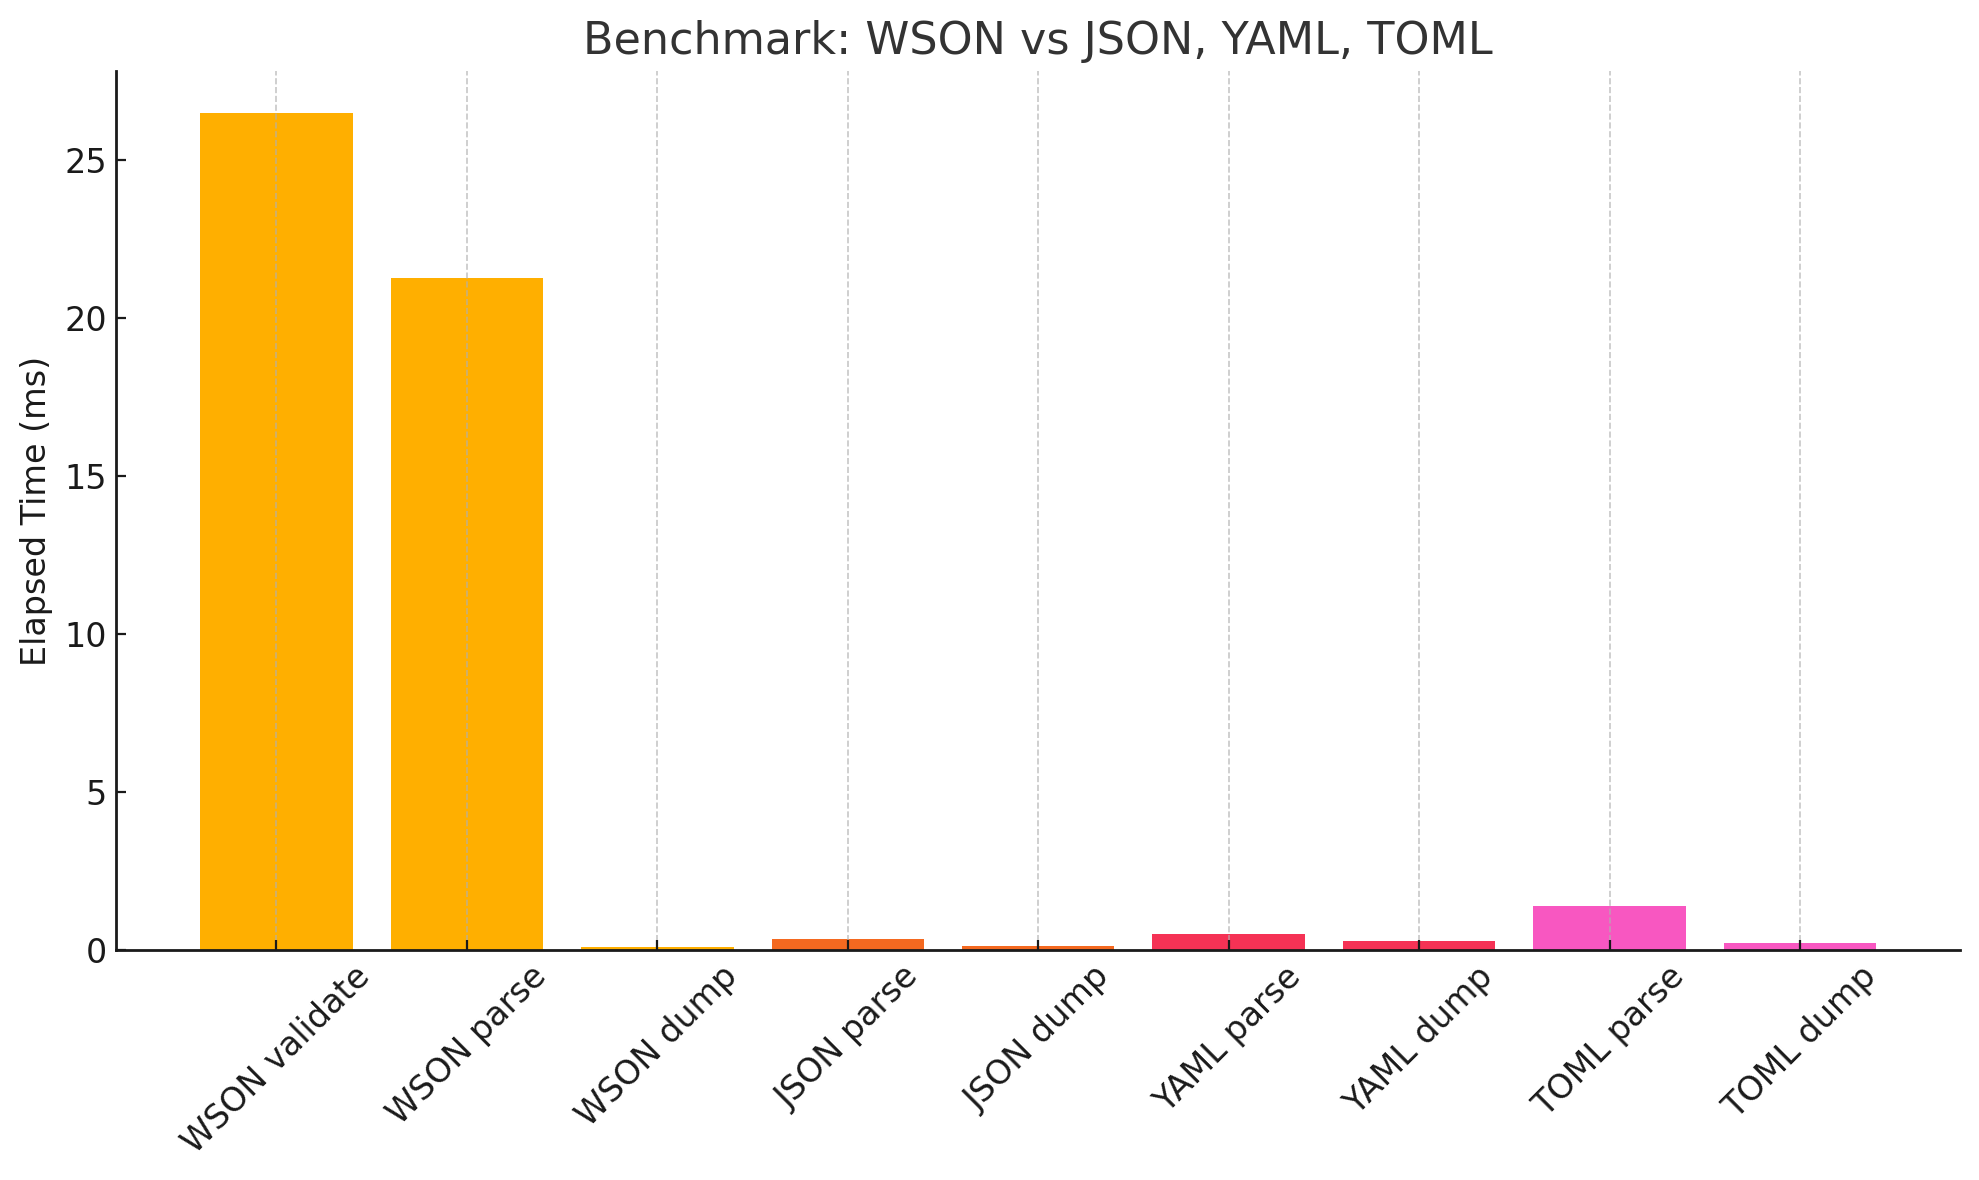
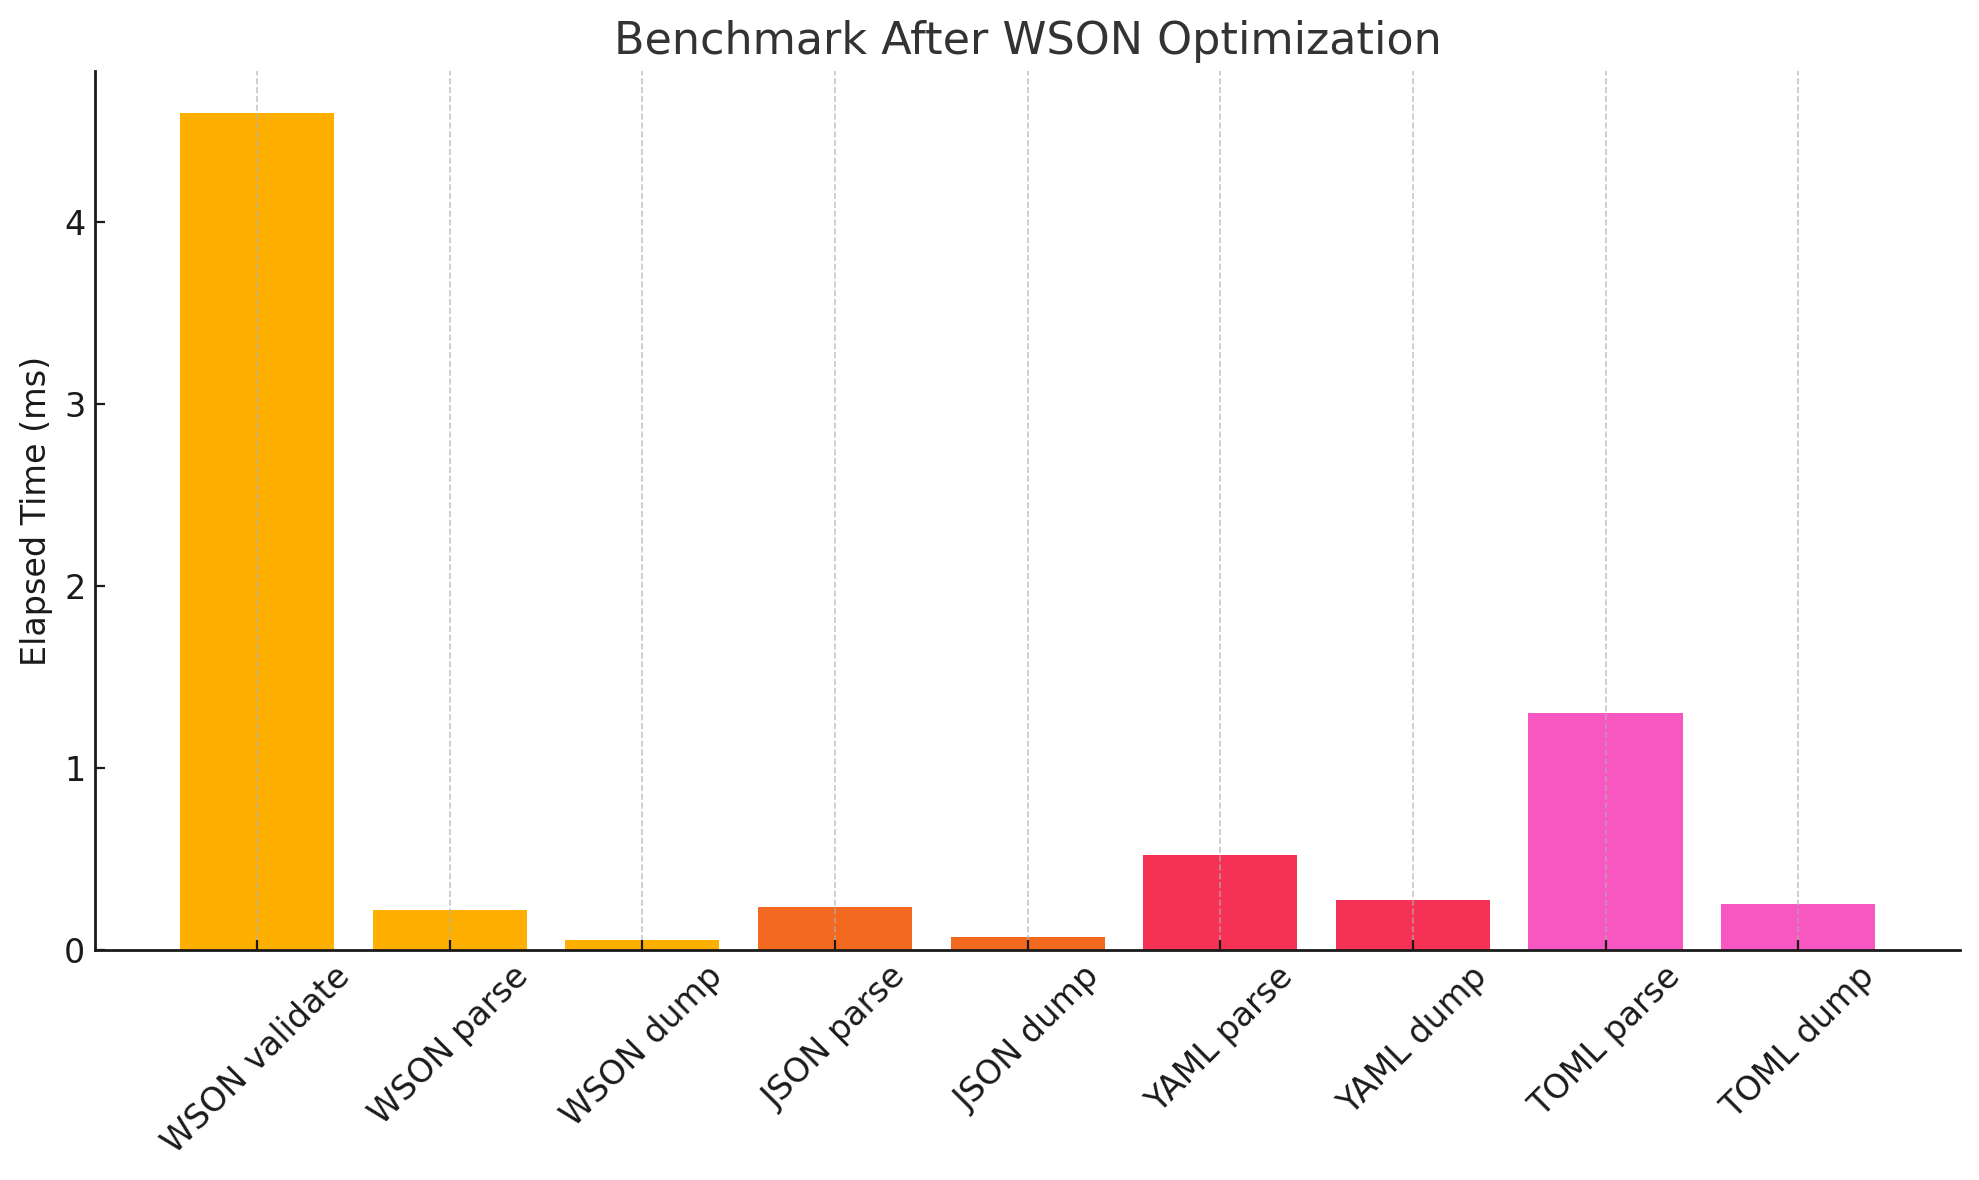
Version Update

diff --git a/README.md b/README.md
@@ -26,5 +26,19 @@ WSON supports not only simple key-value pairs but also complex data structures l
 ## Benchmark
 ![output.png](.github/output.png)
 
+| Format | Operation  | Elapsed Time (ms) |
+|--------|------------|-------------------|
+| WSON   | Validate   | 4.604             |
+|        | Parse      | 0.219             |
+|        | Dump       | 0.059             |
+| JSON   | Parse      | 0.239             |
+|        | Dump       | 0.072             |
+| YAML   | Parse      | 0.524             |
+|        | Dump       | 0.277             |
+| TOML   | Parse      | 1.306             |
+|        | Dump       | 0.254             |
+
+
+
 ## Conclusion
 WSON reflects the philosophy of the Wave language by aiming for more efficient and powerful data serialization. It addresses the shortcomings of traditional JSON while retaining an intuitive syntax, making it easier for developers to adopt. Going forward, WSON will establish itself as the standard data format within the Wave ecosystem, delivering strong performance across various environments.
